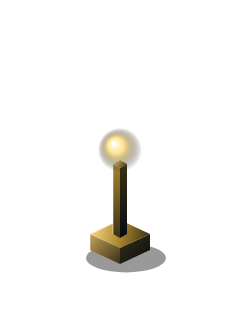
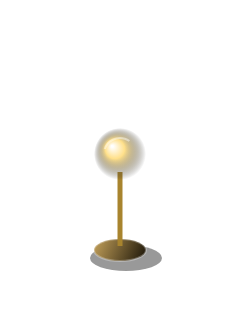
Redraw the guns so they are not boxes.
Lance is a needle, Halo a ring, Crater a bowl, Rail two barrels, Beacon a lamp.

Changed region(s): [[0.35, 0.4062, 0.7, 0.875]]

diff --git a/scripts/pack-paint.js b/scripts/pack-paint.js
@@ -92,41 +92,124 @@ function plate(ctx, foot, kind) {
   ctx.stroke();
 }
 
+function cone(ctx, x, y, rx, ry, tall, light, mid, dark) {
+  ctx.beginPath();
+  ctx.moveTo(x, y - tall);
+  ctx.lineTo(x - rx, y);
+  ctx.quadraticCurveTo(x, y + ry, x, y);
+  ctx.closePath();
+  ctx.fillStyle = dark;
+  ctx.fill();
+  ctx.beginPath();
+  ctx.moveTo(x, y - tall);
+  ctx.lineTo(x + rx, y);
+  ctx.quadraticCurveTo(x, y + ry, x, y);
+  ctx.closePath();
+  ctx.fillStyle = ramp(ctx, x, y - tall, x + rx, y, [[0, light], [1, mid]]);
+  ctx.fill();
+  ctx.beginPath();
+  ctx.ellipse(x, y, rx, ry, 0, 0, Math.PI);
+  ctx.fillStyle = dark;
+  ctx.fill();
+}
+
+function disc(ctx, x, y, rx, ry, top, edge) {
+  ctx.beginPath();
+  ctx.ellipse(x, y, rx, ry, 0, 0, Math.PI * 2);
+  ctx.fillStyle = ramp(ctx, x - rx, y - ry, x + rx, y + ry, [[0, top], [1, edge]]);
+  ctx.fill();
+  ctx.strokeStyle = "rgba(255,255,255,0.28)";
+  ctx.lineWidth = 2;
+  ctx.stroke();
+}
+
+function dome(ctx, x, y, rx, ry, light, mid, dark) {
+  ctx.beginPath();
+  ctx.ellipse(x, y, rx, ry, 0, Math.PI, 0);
+  ctx.quadraticCurveTo(x + rx * 0.2, y - ry * 1.7, x, y - ry * 1.55);
+  ctx.quadraticCurveTo(x - rx * 0.2, y - ry * 1.7, x - rx, y);
+  ctx.fillStyle = ramp(ctx, x - rx, y - ry * 1.6, x + rx, y, [[0, light], [0.5, mid], [1, dark]]);
+  ctx.fill();
+  ctx.beginPath();
+  ctx.ellipse(x, y, rx, ry, 0, 0, Math.PI);
+  ctx.fillStyle = dark;
+  ctx.fill();
+}
+
+function capsule(ctx, x, y, len, rad, light, dark) {
+  ctx.beginPath();
+  ctx.ellipse(x, y, rad, rad * 0.55, 0, 0, Math.PI * 2);
+  ctx.ellipse(x + len, y - len * 0.18, rad, rad * 0.55, 0, 0, Math.PI * 2);
+  ctx.fillStyle = dark;
+  ctx.fill();
+  ctx.beginPath();
+  ctx.moveTo(x, y - rad * 0.45);
+  ctx.lineTo(x + len, y - len * 0.18 - rad * 0.45);
+  ctx.lineTo(x + len, y - len * 0.18 + rad * 0.45);
+  ctx.lineTo(x, y + rad * 0.45);
+  ctx.closePath();
+  ctx.fillStyle = ramp(ctx, x, y - rad, x, y + rad, [[0, light], [1, dark]]);
+  ctx.fill();
+  ctx.beginPath();
+  ctx.ellipse(x + len, y - len * 0.18, rad * 0.72, rad * 0.4, 0, 0, Math.PI * 2);
+  ctx.fillStyle = light;
+  ctx.fill();
+}
+
 function tower(ctx, foot, kind) {
   const x = foot.x;
   const y = foot.y;
-  contact(ctx, x, y, kind === "crater" || kind === "rail" ? 52 : 40);
+  contact(ctx, x, y, kind === "rail" || kind === "crater" ? 58 : 36);
   if (kind === "lance") {
-    prism(ctx, x, y, 36, 16, 18, ["#d7e4ef", "#6a7c90", "#243044"], ["#8b98ab", "#141c2a"], ["#243044", "#070b12"]);
-    prism(ctx, x, y - 18, 18, 10, 78, ["#bffff8", "#147a78", "#0c3030"], ["#1a9a96", "#0c3030"], ["#0c3030", "#070b12"]);
-    prism(ctx, x, y - 96, 8, 5, 28, ["#ffffff", "#7ef6ee", "#147a78"], ["#7ef6ee", "#0c3030"], ["#0c3030", "#070b12"]);
-    lamp(ctx, x, y - 132, 16, "#7ef6ee");
+    disc(ctx, x, y, 34, 14, "#d7e4ef", "#141c2a");
+    cone(ctx, x, y - 4, 22, 10, 92, "#d9fffb", "#147a78", "#062220");
+    cone(ctx, x, y - 96, 8, 4, 48, "#ffffff", "#7ef6ee", "#0c3030");
+    lamp(ctx, x, y - 148, 14, "#7ef6ee");
   } else if (kind === "halo") {
-    prism(ctx, x, y, 40, 18, 48, ["#d7e4ef", "#3d4b60", "#141c2a"], ["#5a7088", "#141c2a"], ["#1a2433", "#070b12"]);
+    disc(ctx, x, y, 28, 12, "#8b98ab", "#070b12");
+    cone(ctx, x, y - 2, 10, 6, 36, "#9aa8ba", "#243044", "#070b12");
+    ctx.save();
     ctx.strokeStyle = "#7ef6ee";
-    ctx.lineWidth = 6;
+    ctx.lineWidth = 10;
     ctx.shadowColor = "#7ef6ee";
-    ctx.shadowBlur = 12;
+    ctx.shadowBlur = 16;
     ctx.beginPath();
-    ctx.ellipse(x, y - 78, 36, 14, 0, 0, Math.PI * 2);
+    ctx.ellipse(x, y - 78, 48, 18, 0, 0, Math.PI * 2);
     ctx.stroke();
-    ctx.shadowBlur = 0;
-    lamp(ctx, x, y - 78, 10, "#7ef6ee");
-  } else if (kind === "crater") {
-    prism(ctx, x, y, 56, 24, 36, ["#ffb089", "#c43a16", "#4a180e"], ["#e07040", "#4a180e"], ["#4a180e", "#070b12"]);
+    ctx.lineWidth = 3;
+    ctx.strokeStyle = "#eef3f7";
     ctx.beginPath();
-    ctx.ellipse(x, y - 40, 22, 10, 0, 0, Math.PI * 2);
-    ctx.fillStyle = ramp(ctx, x - 22, y - 50, x + 22, y - 30, [[0, "#fff2c4"], [0.4, "#ffb089"], [1, "#c43a16"]]);
+    ctx.ellipse(x, y - 78, 48, 18, 0, Math.PI * 1.15, Math.PI * 1.85);
+    ctx.stroke();
+    ctx.restore();
+    lamp(ctx, x, y - 78, 8, "#7ef6ee");
+  } else if (kind === "crater") {
+    disc(ctx, x, y + 4, 62, 24, "#6a4030", "#140804");
+    dome(ctx, x, y, 52, 22, "#ffd0b0", "#e07040", "#4a180e");
+    ctx.beginPath();
+    ctx.ellipse(x, y - 28, 18, 8, 0, 0, Math.PI * 2);
+    ctx.fillStyle = "#1a0804";
     ctx.fill();
-    lamp(ctx, x, y - 42, 12, "#ffb089");
+    lamp(ctx, x, y - 30, 14, "#ffb089");
   } else if (kind === "rail") {
-    prism(ctx, x, y, 58, 22, 28, ["#eef3f7", "#8b98ab", "#243044"], ["#b7c4d4", "#243044"], ["#1a2433", "#070b12"]);
-    prism(ctx, x + 28, y - 18, 26, 7, 8, ["#ffffff", "#d7e4ef", "#8b98ab"], ["#d7e4ef", "#3d4b60"], ["#3d4b60", "#070b12"]);
-    lamp(ctx, x + 56, y - 26, 7, "#eef3f7");
+    disc(ctx, x, y + 2, 64, 22, "#8b98ab", "#070b12");
+    capsule(ctx, x - 10, y - 16, 78, 11, "#eef3f7", "#3d4b60");
+    capsule(ctx, x - 10, y - 2, 78, 11, "#d7e4ef", "#141c2a");
+    lamp(ctx, x + 70, y - 30, 6, "#eef3f7");
   } else {
-    prism(ctx, x, y, 30, 14, 16, ["#ffe08a", "#a8842e", "#3a3014"], ["#c4a15a", "#3a3014"], ["#3a3014", "#070b12"]);
-    prism(ctx, x, y - 16, 7, 4, 70, ["#ffe08a", "#a8842e", "#3a3014"], ["#a8842e", "#3a3014"], ["#3a3014", "#070b12"]);
-    lamp(ctx, x, y - 100, 22, "#ffe08a");
+    disc(ctx, x, y, 26, 11, "#c4a15a", "#1a1408");
+    ctx.strokeStyle = "#a8842e";
+    ctx.lineWidth = 5;
+    ctx.beginPath();
+    ctx.moveTo(x, y - 4);
+    ctx.lineTo(x, y - 78);
+    ctx.stroke();
+    lamp(ctx, x, y - 96, 26, "#ffe08a");
+    ctx.strokeStyle = "rgba(255,255,255,0.45)";
+    ctx.lineWidth = 2;
+    ctx.beginPath();
+    ctx.ellipse(x, y - 96, 16, 16, 0, Math.PI * 1.1, Math.PI * 1.7);
+    ctx.stroke();
   }
 }
 

diff --git a/src/game/version.ts b/src/game/version.ts
@@ -1,1 +1,1 @@
-export const GAME_VERSION = "0.13.1";
+export const GAME_VERSION = "0.13.2";
